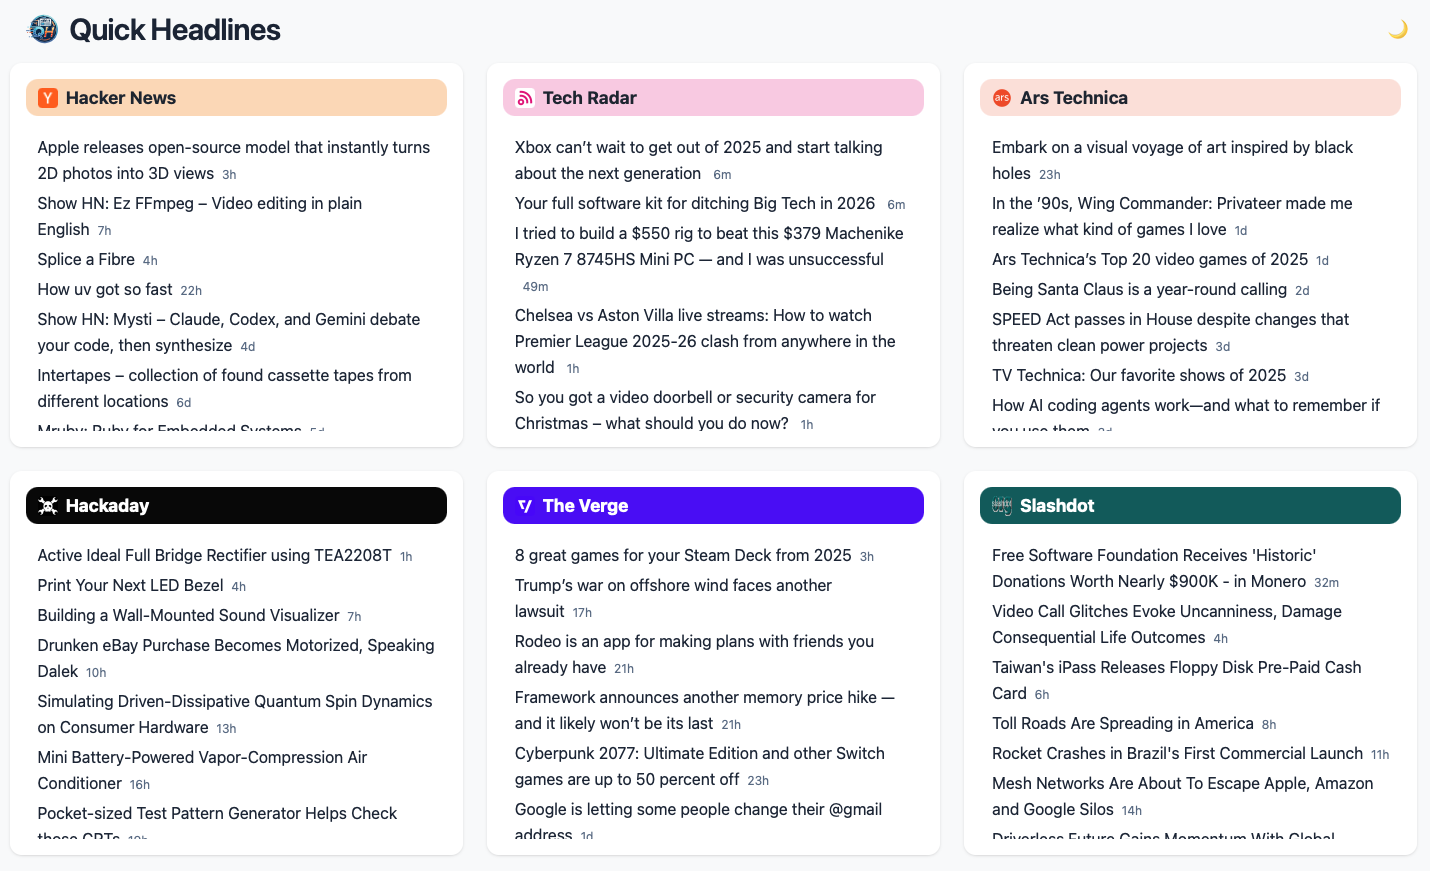
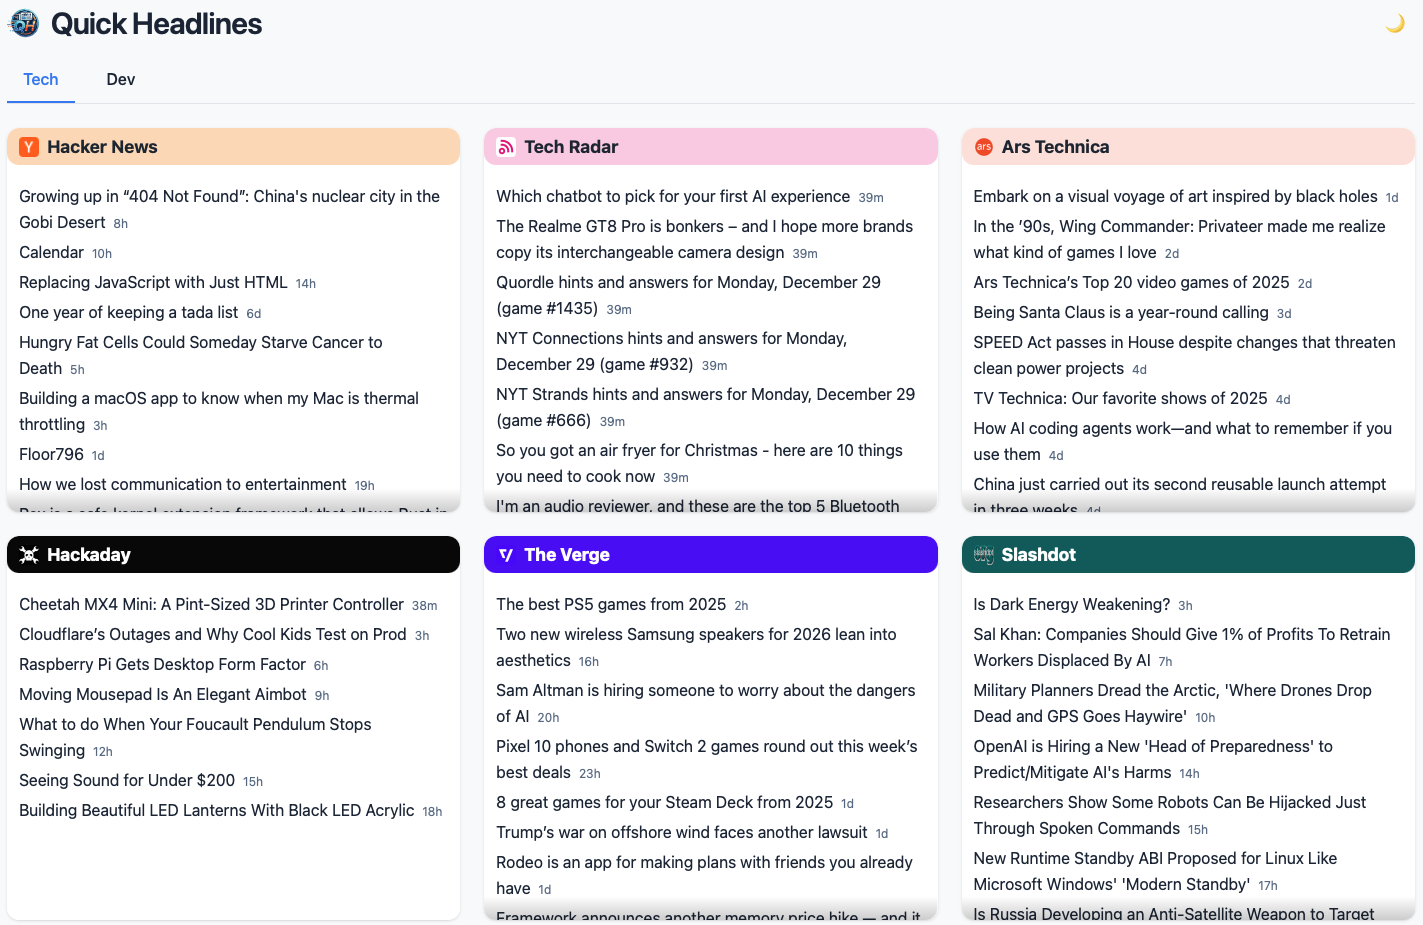
Overhaul of the readme and updated screenshots with the tabs.

Changed region(s): [[0.0, 0.0, 1.0, 1.0], [0.9585, 0.031, 0.9895, 0.062]]

diff --git a/README.md b/README.md
@@ -2,11 +2,20 @@
 
 # Quick Headlines 
 
+Quick Headlines is an easily configurable and deployable recent feed dashboard. It allows you to organize your favorite RSS/Atom feeds and software releases into **tabs** for a clean, categorized view.
 
-Quick Headlines is an easily configurable and deployable recent feed dashboard.  I wanted it to be as simple as dropping an executable and a YAML file with feeds in it.  The aim is to have sane defaults, so you can get up and running quickly without fighting with it.  Making it so simple that it can just run locally as well.  It does utilize some javascript libraries like [Color Thief](https://github.com/lokesh/color-thief) (for guessing a good background/text header colors) and [Morphodom](https://github.com/patrick-steele-idem/morphdom) (for hydrating the DOM with new content). It utilizes Tailwind CSS for stylings. 
+I wanted it to be as simple as dropping an executable and a YAML file with feeds in it. The aim is to have sane defaults, so you can get up and running quickly without fighting with it. It works great as a local dashboard or a hosted service.
+
+## Features
+
+- **Tabbed Interface**: Group feeds into logical categories (e.g., "Tech", "Dev", "News").
+- **Software Release Tracking**: Monitor releases from GitHub, GitLab, and Codeberg in a unified view.
+- **Adaptive UI**: Automatically extracts colors from site favicons to style feed headers.
+- **Dark Mode**: Built-in support with a toggle, including high-contrast scrollbars and scroll-indicators for Safari compatibility.
+- **Live Updates**: Automatically refreshes feeds in the background and updates the UI without a page reload using [Morphodom](https://github.com/patrick-steele-idem/morphdom).
+- **Lightweight**: Single binary deployment with minimal dependencies.
 
 ## Screenshots
-
 Mobile (Dark Mode)           |  Mobile (Light Mode)
 :-------------------------:|:-------------------------:
 ![](ss/qh-mobile-dm-ss.png)  |  ![](ss/qh-mobile-lm-ss.png)
@@ -19,31 +28,48 @@ Desktop (Dark Mode)           |  Desktop (Light Mode)
 
 Download the associated binary for your operating system from the Releases page. There are builds for Linux (arm64/amd64), FreeBSD (amd64), and macOS (arm64). You will also need to have the `feeds.yml` file in the same folder as the executable.  **Note for macOS users:** You must have OpenSSL 3 installed (`brew install openssl@3`) to run the binary.
 
-If you are just wanting to run & compile it locally, you can run ```make build``` and then run bin\quickheadlines.  If you want to run it in development mode, run ```make run``` and it will auto execute. 
-
-The included example feeds.yml has example tech related feeds to get you started and the default properties.  It should only require feed title and feed url, everything else should have some basic defaults to allow it to "just work."  
-
 ## Usage
 
-Download the binary for your system and run it with the feeds.yml file in the same directory, edit the feeds.yml file as needed.  It has only been tested on Linux and Mac OS X so far.  A FreeBSD binary has been provided but not tested yet.
+Edit the `feeds.yml` file to add your own content. It only requires a feed title and URL; other properties have sane defaults.
 
-Example ```feeds.yml``` (only the feeds with title/url is required, it will use defaults otherwise):
+If you are compiling from source:
+
+- **Production Mode**: Run `make build` to compile, then run `./bin/quickheadlines`.
+- **Development Mode**: Run `make run` to automatically compile and execute.
+
+Example ```feeds.yml```:
 
 ```
-refresh_minutes: 10
-item_limit: 10
-server_port: 3030
-page_title: "Quick Headlines"
+refresh_minutes: 10 # optional, defaults to 10
+item_limit: 10 # optional, defaults to 10
+server_port: 3030 # optional, defaults to 3030
+page_title: "Quick Headlines" # optional, defaults to Quick Headlines
 tabs:
   - name: "Tech"
     feeds:
       - title: "Hacker News"
         url: "https://news.ycombinator.com/rss"
-        header_color: "orange"
-    software_releases:
-      title: "Frameworks"
+        header_color: "orange" # optional, can take hex or color names
+      - title: "Tech Radar"
+        url: "https://www.techradar.com/feeds.xml"
+      - title: "Ars Technica"
+        url: "https://feeds.arstechnica.com/arstechnica/index"
+      - title: "Hackaday"
+        url: "https://hackaday.com/blog/feed/"
+  - name: "Dev"
+    feeds:
+      - title: "Lobste.rs"
+        url: "https://lobste.rs/rss"
+      - title: "Google Developers"
+        url: "https://developer.chrome.com/static/blog/feed.xml"
+      - title: "Dev.to"
+        url: "https://dev.to/feed"
+    software_releases: 
+      title: "Software Releases" # optional, defaults to Software Releases
       repos:
-        - "crystal-lang/crystal"
+        - "crystal-lang/crystal"          # Defaults to GitHub
+        - "inkscape/inkscape:gl"          # :gl for GitLab
+        - "supercell/luce:cb"             # :cb for Codeberg
 ```
 
 ## Docker Image
